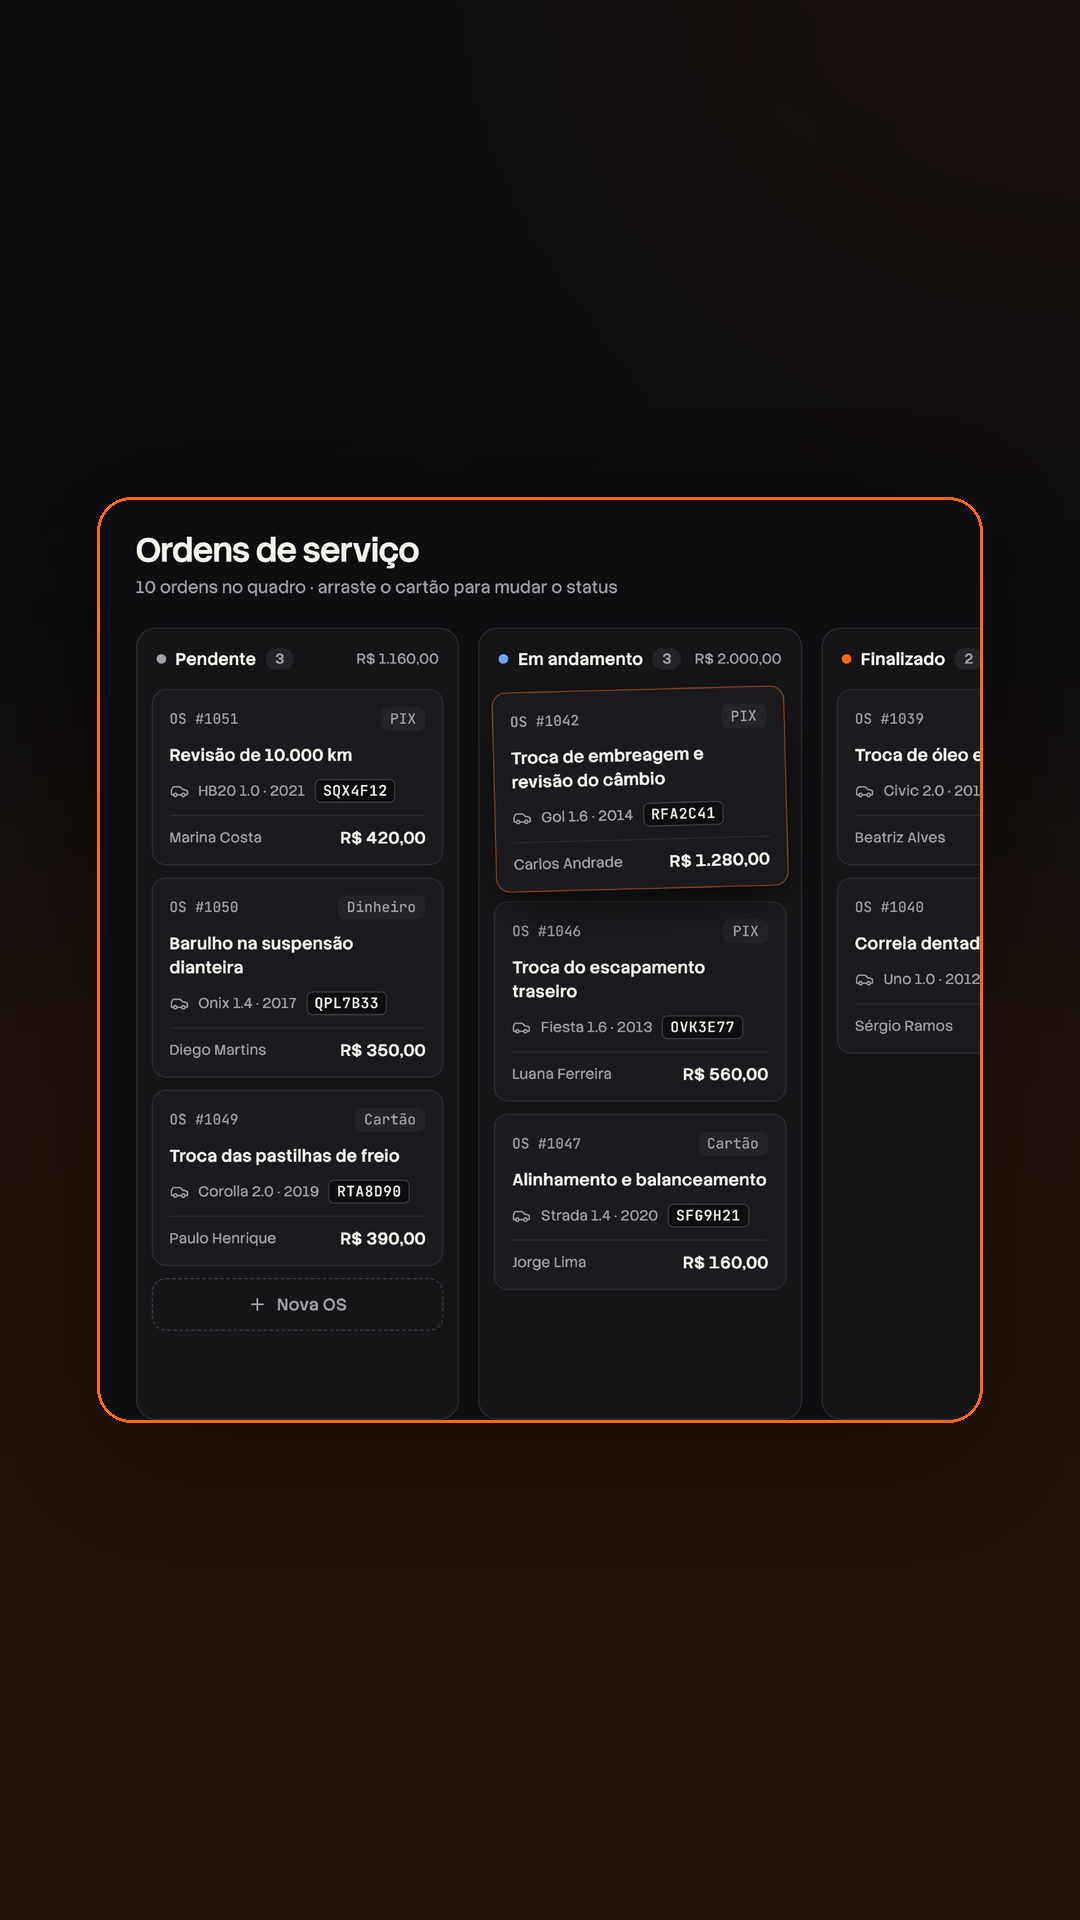
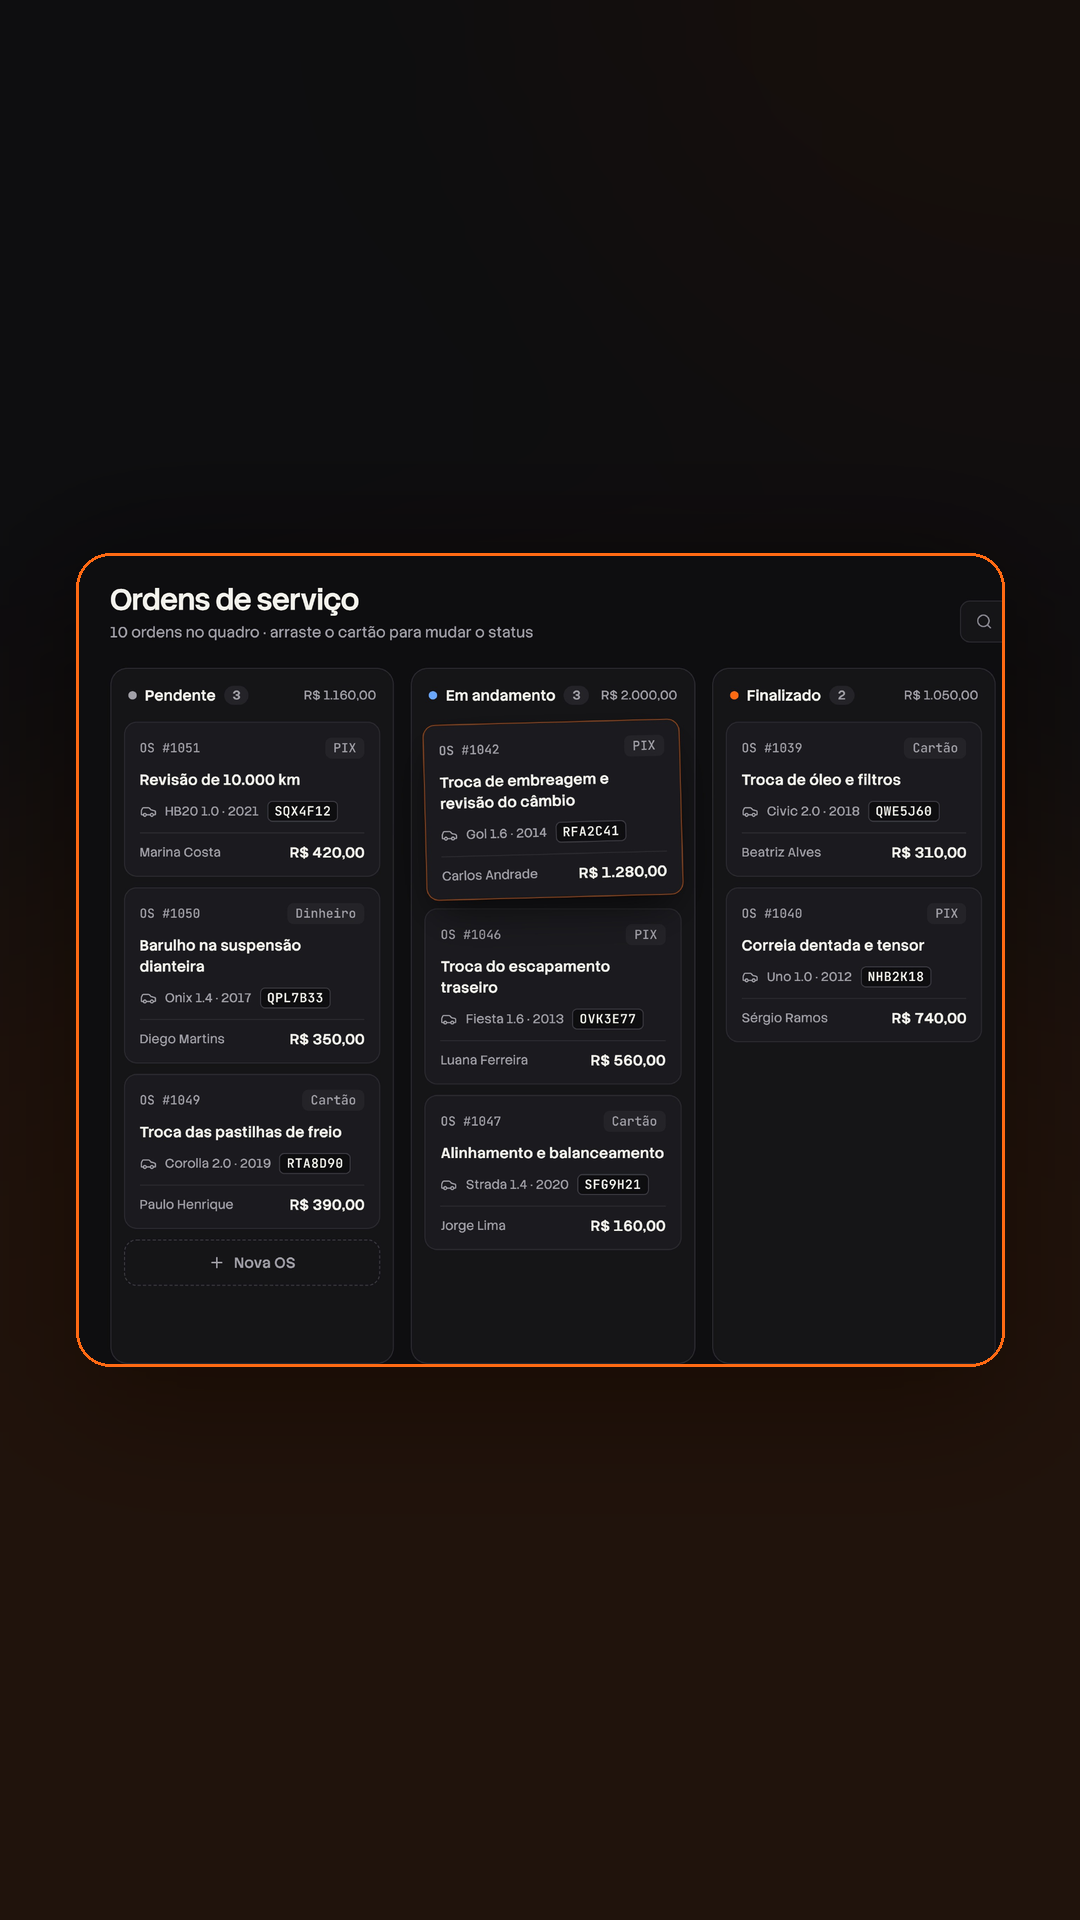
V12 e V13: telas reais sem corte nos painéis e capa própria do AutoFlow
Claude-Session: https://claude.ai/code/session_01F7BzuknXBX79z2GWgDicT3

diff --git a/scripts/videos_autoflow.py b/scripts/videos_autoflow.py
@@ -20,9 +20,9 @@ FIM = "\n\n"
 
 # tela real -> imagem 9:16 pronta para entrar como cena (quanto da largura a tela ocupa, e de onde recortar)
 MONTAGENS = [
- dict(saida="tela-painel.png", tela="painel_conteudo.png", largura=0.82, corte=(0, 0, 0.55, 0.70)),
- dict(saida="tela-ordens.png", tela="ordens_conteudo.png", largura=0.82, corte=(0, 0, 0.62, 1)),
- dict(saida="tela-historico.png", tela="historico_conteudo.png", largura=0.82, corte=(0, 0, 0.78, 0.95)),
+ dict(saida="tela-painel.png", tela="painel_conteudo.png", largura=0.92, corte=(0, 0, 1, 0.97)),
+ dict(saida="tela-ordens.png", tela="ordens_conteudo.png", largura=0.86, corte=(0, 0, 0.74, 1)),
+ dict(saida="tela-historico.png", tela="historico_conteudo.png", largura=0.92, corte=(0, 0, 1, 0.95)),
  dict(saida="tela-nova-os.png", tela="nova_os_painel.png", largura=0.70, corte=(0, 0, 1, 1)),
 ]
 
@@ -110,6 +110,51 @@ VIDEOS = [
       legenda_tiktok="Um dia na oficina, com o AutoFlow.",
       hashtags=["#autoflow", "#oficinamecanica", "#gestaoautomotiva", "#rotina"]),
 ]
+
+
+CAPAS = {
+ "do-caderno-ao-sistema": dict(foto="n-caderno-notebook.png", rotulo="AUTOFLOW", titulo="Do caderno|ao *sistema*", pos="center 45%"),
+ "um-dia-na-oficina": dict(foto="n-silhueta-portao.png", rotulo="UM DIA NA OFICINA", titulo="Das 7h42|às *18h20*", pos="center 40%"),
+}
+
+
+def capas(pastas: dict):
+    """Capa 9:16 de cada vídeo (a do Reels e o 1º quadro do TikTok), na identidade do AutoFlow."""
+    import asyncio, io, re
+    from PIL import Image
+    from playwright.async_api import async_playwright
+    fontes = (RAIZ / "motor/public/fontes").as_uri()
+    logo = (RAIZ / "assets/autoflow/logo-icone.png").as_uri()
+
+    async def gerar():
+        async with async_playwright() as p:
+            nav = await p.chromium.launch()
+            for nome, destino in pastas.items():
+                d = CAPAS[nome]
+                img = (CENAS / d["foto"]).as_uri()
+                titulo = re.sub(r"\*(.+?)\*", r'<span style="color:#FF6A13">\1</span>', d["titulo"]).replace("|", "<br>")
+                html = f"""<html><head><meta charset="utf-8"><style>
+                @font-face{{font-family:SH;font-weight:700;src:url({fontes}/stack-sans-headline-latin-700-normal.woff2)}}
+                @font-face{{font-family:ST;font-weight:500;src:url({fontes}/stack-sans-text-latin-500-normal.woff2)}}
+                *{{margin:0;box-sizing:border-box}} body{{width:1080px;height:1920px;position:relative;background:#0E0E10;overflow:hidden}}
+                .f{{position:absolute;inset:0;background:url({img}) center/cover;background-position:{d['pos']}}}
+                .v{{position:absolute;inset:0;background:linear-gradient(180deg,rgba(14,14,16,.6),rgba(14,14,16,.05) 32%,rgba(14,14,16,.9) 72%,#0E0E10)}}
+                .m{{position:absolute;left:84px;top:96px;display:flex;align-items:center;gap:18px;font:700 34px SH;color:#F4F2EC}}
+                .m img{{width:70px;height:70px;border-radius:18px}}
+                .r{{font:700 30px SH;letter-spacing:5px;color:#FF6A13;margin-bottom:26px}}
+                h1{{font:700 108px/1.02 SH;color:#F4F2EC;letter-spacing:-3px}}
+                .c{{position:absolute;left:84px;right:84px;bottom:420px}}</style></head>
+                <body><div class="f"></div><div class="v"></div>
+                <div class="m"><img src="{logo}">AutoFlow</div>
+                <div class="c"><div class="r">{d['rotulo']}</div><h1>{titulo}</h1></div></body></html>"""
+                pg = await nav.new_page(viewport={"width": 1080, "height": 1920})
+                tmp = RAIZ / "_capa_af.html"; tmp.write_text(html, encoding="utf-8")
+                await pg.goto(tmp.as_uri()); await pg.evaluate("document.fonts.ready"); await pg.wait_for_timeout(300)
+                Image.open(io.BytesIO(await pg.screenshot())).convert("RGB").save(destino / "capa.jpg", quality=93)
+                await pg.close(); tmp.unlink()
+                print("capa:", destino.name)
+            await nav.close()
+    asyncio.run(gerar())
 
 
 def pedidos():
